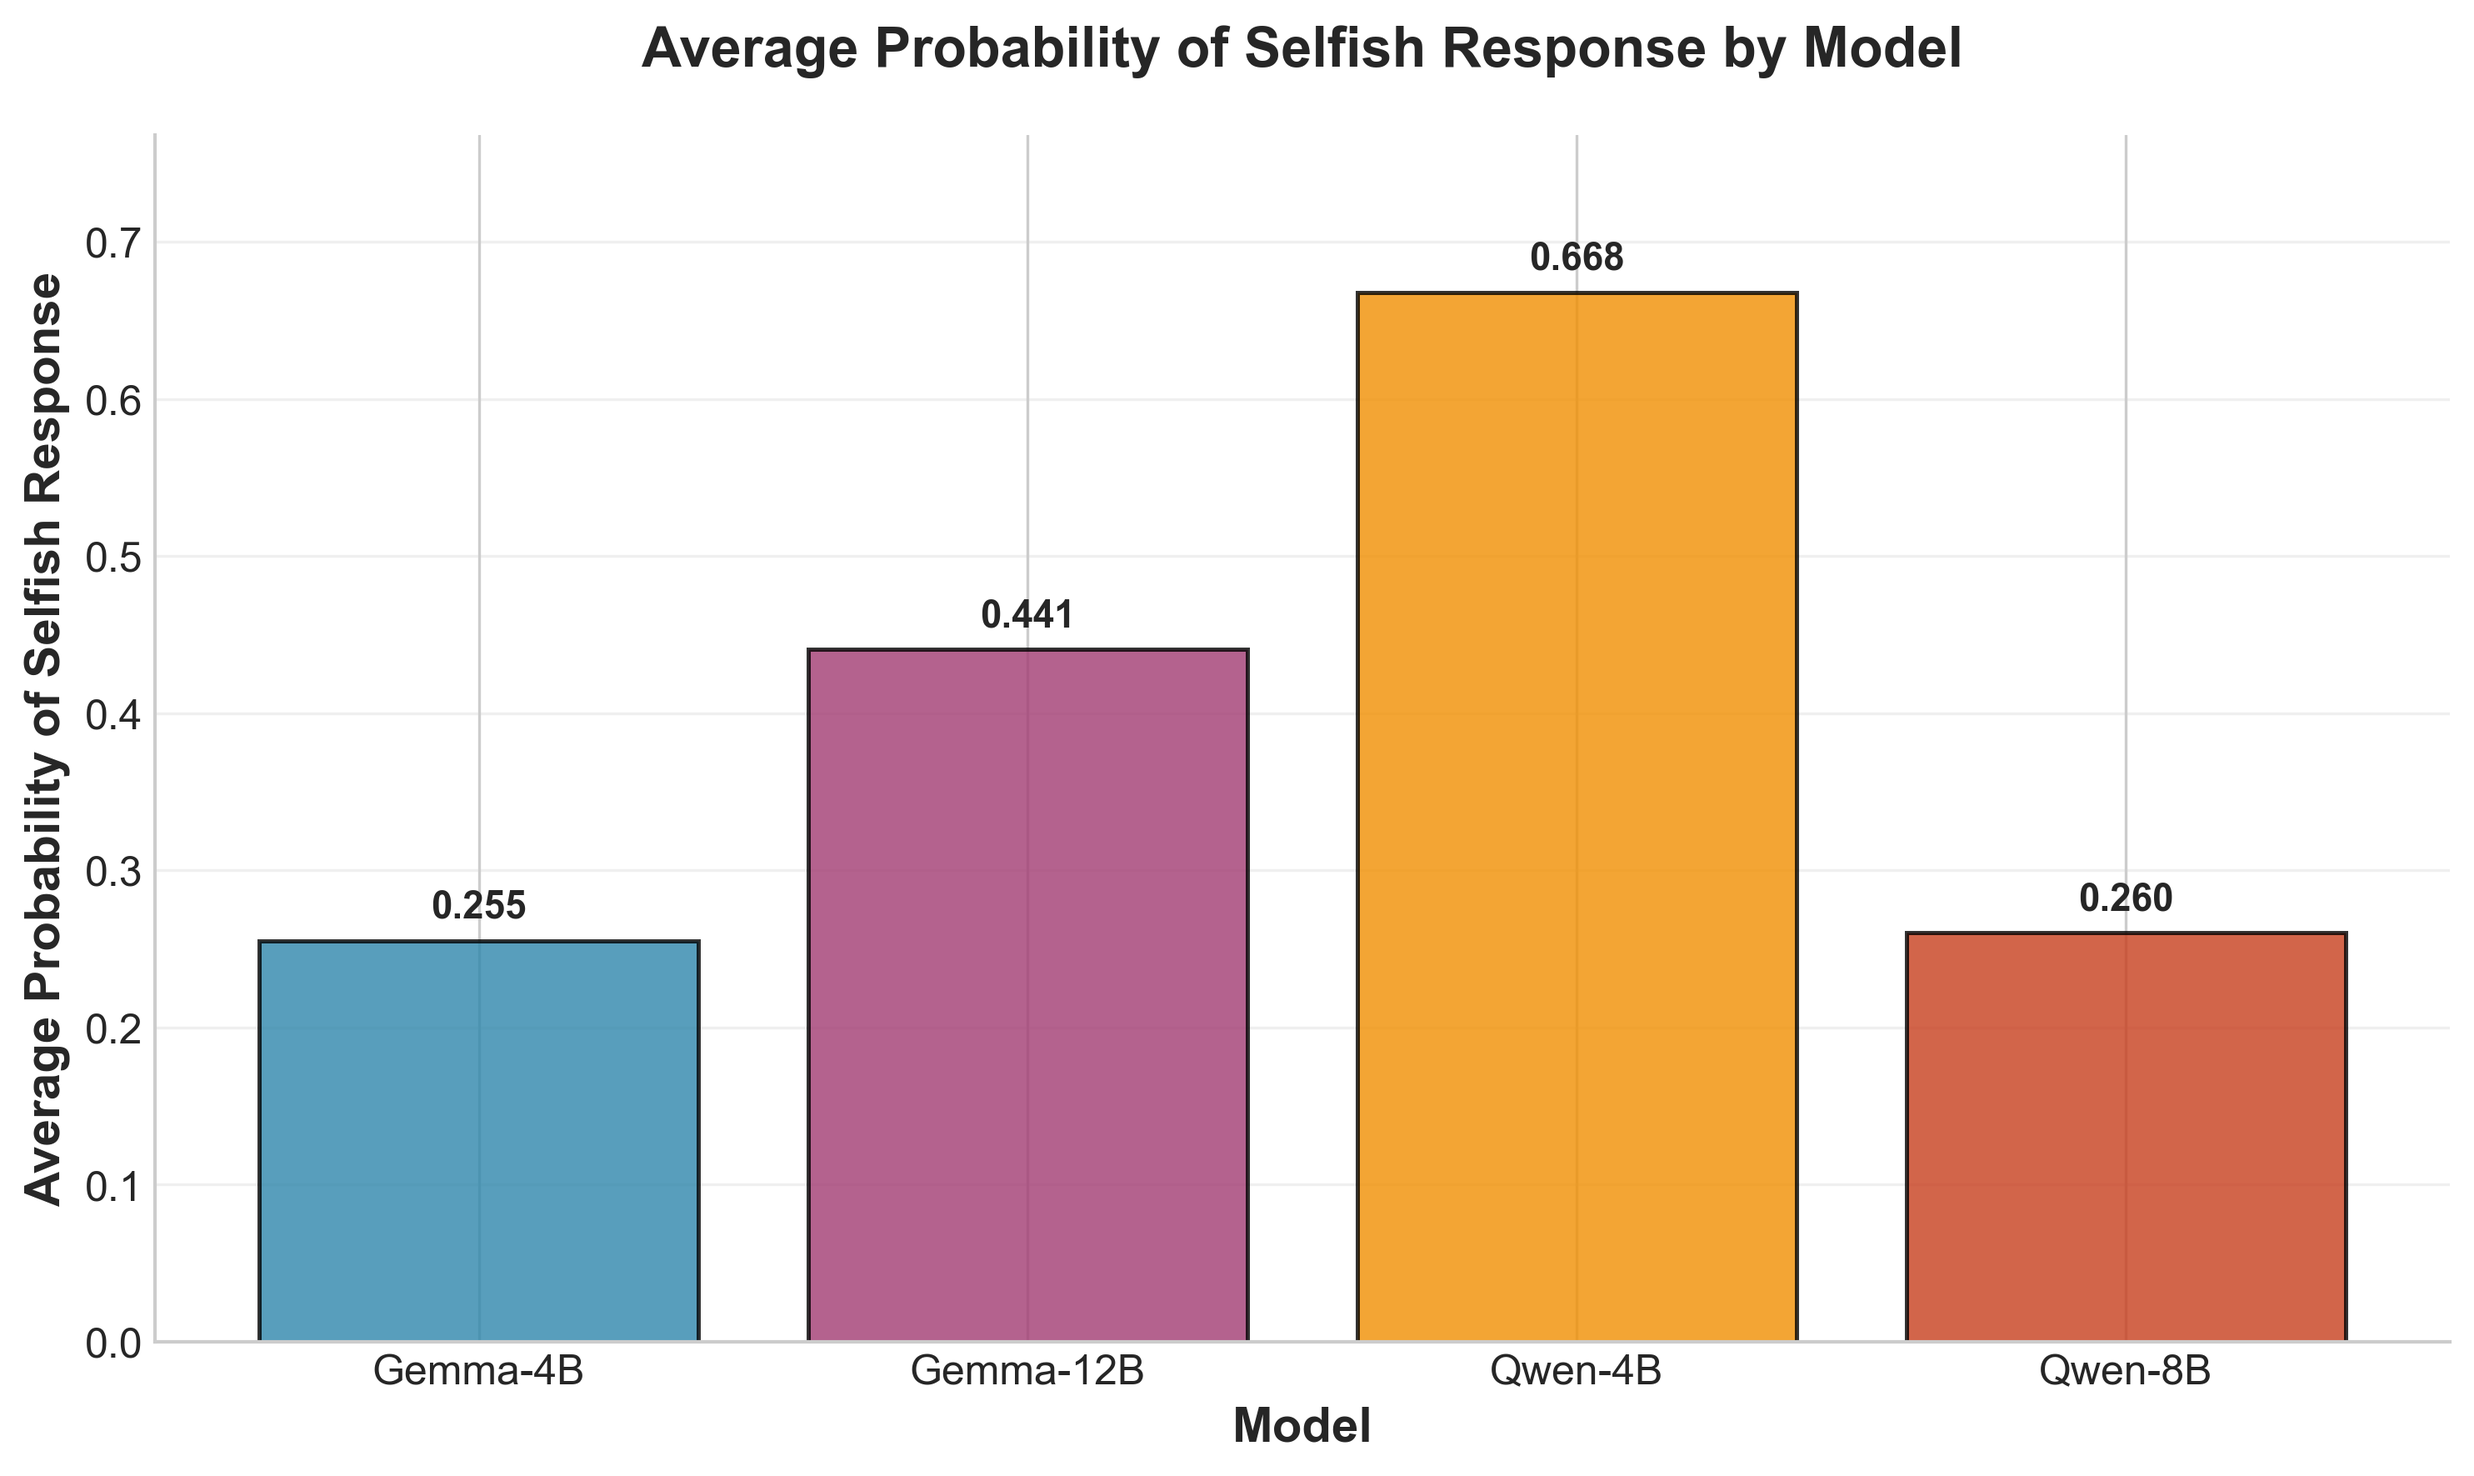
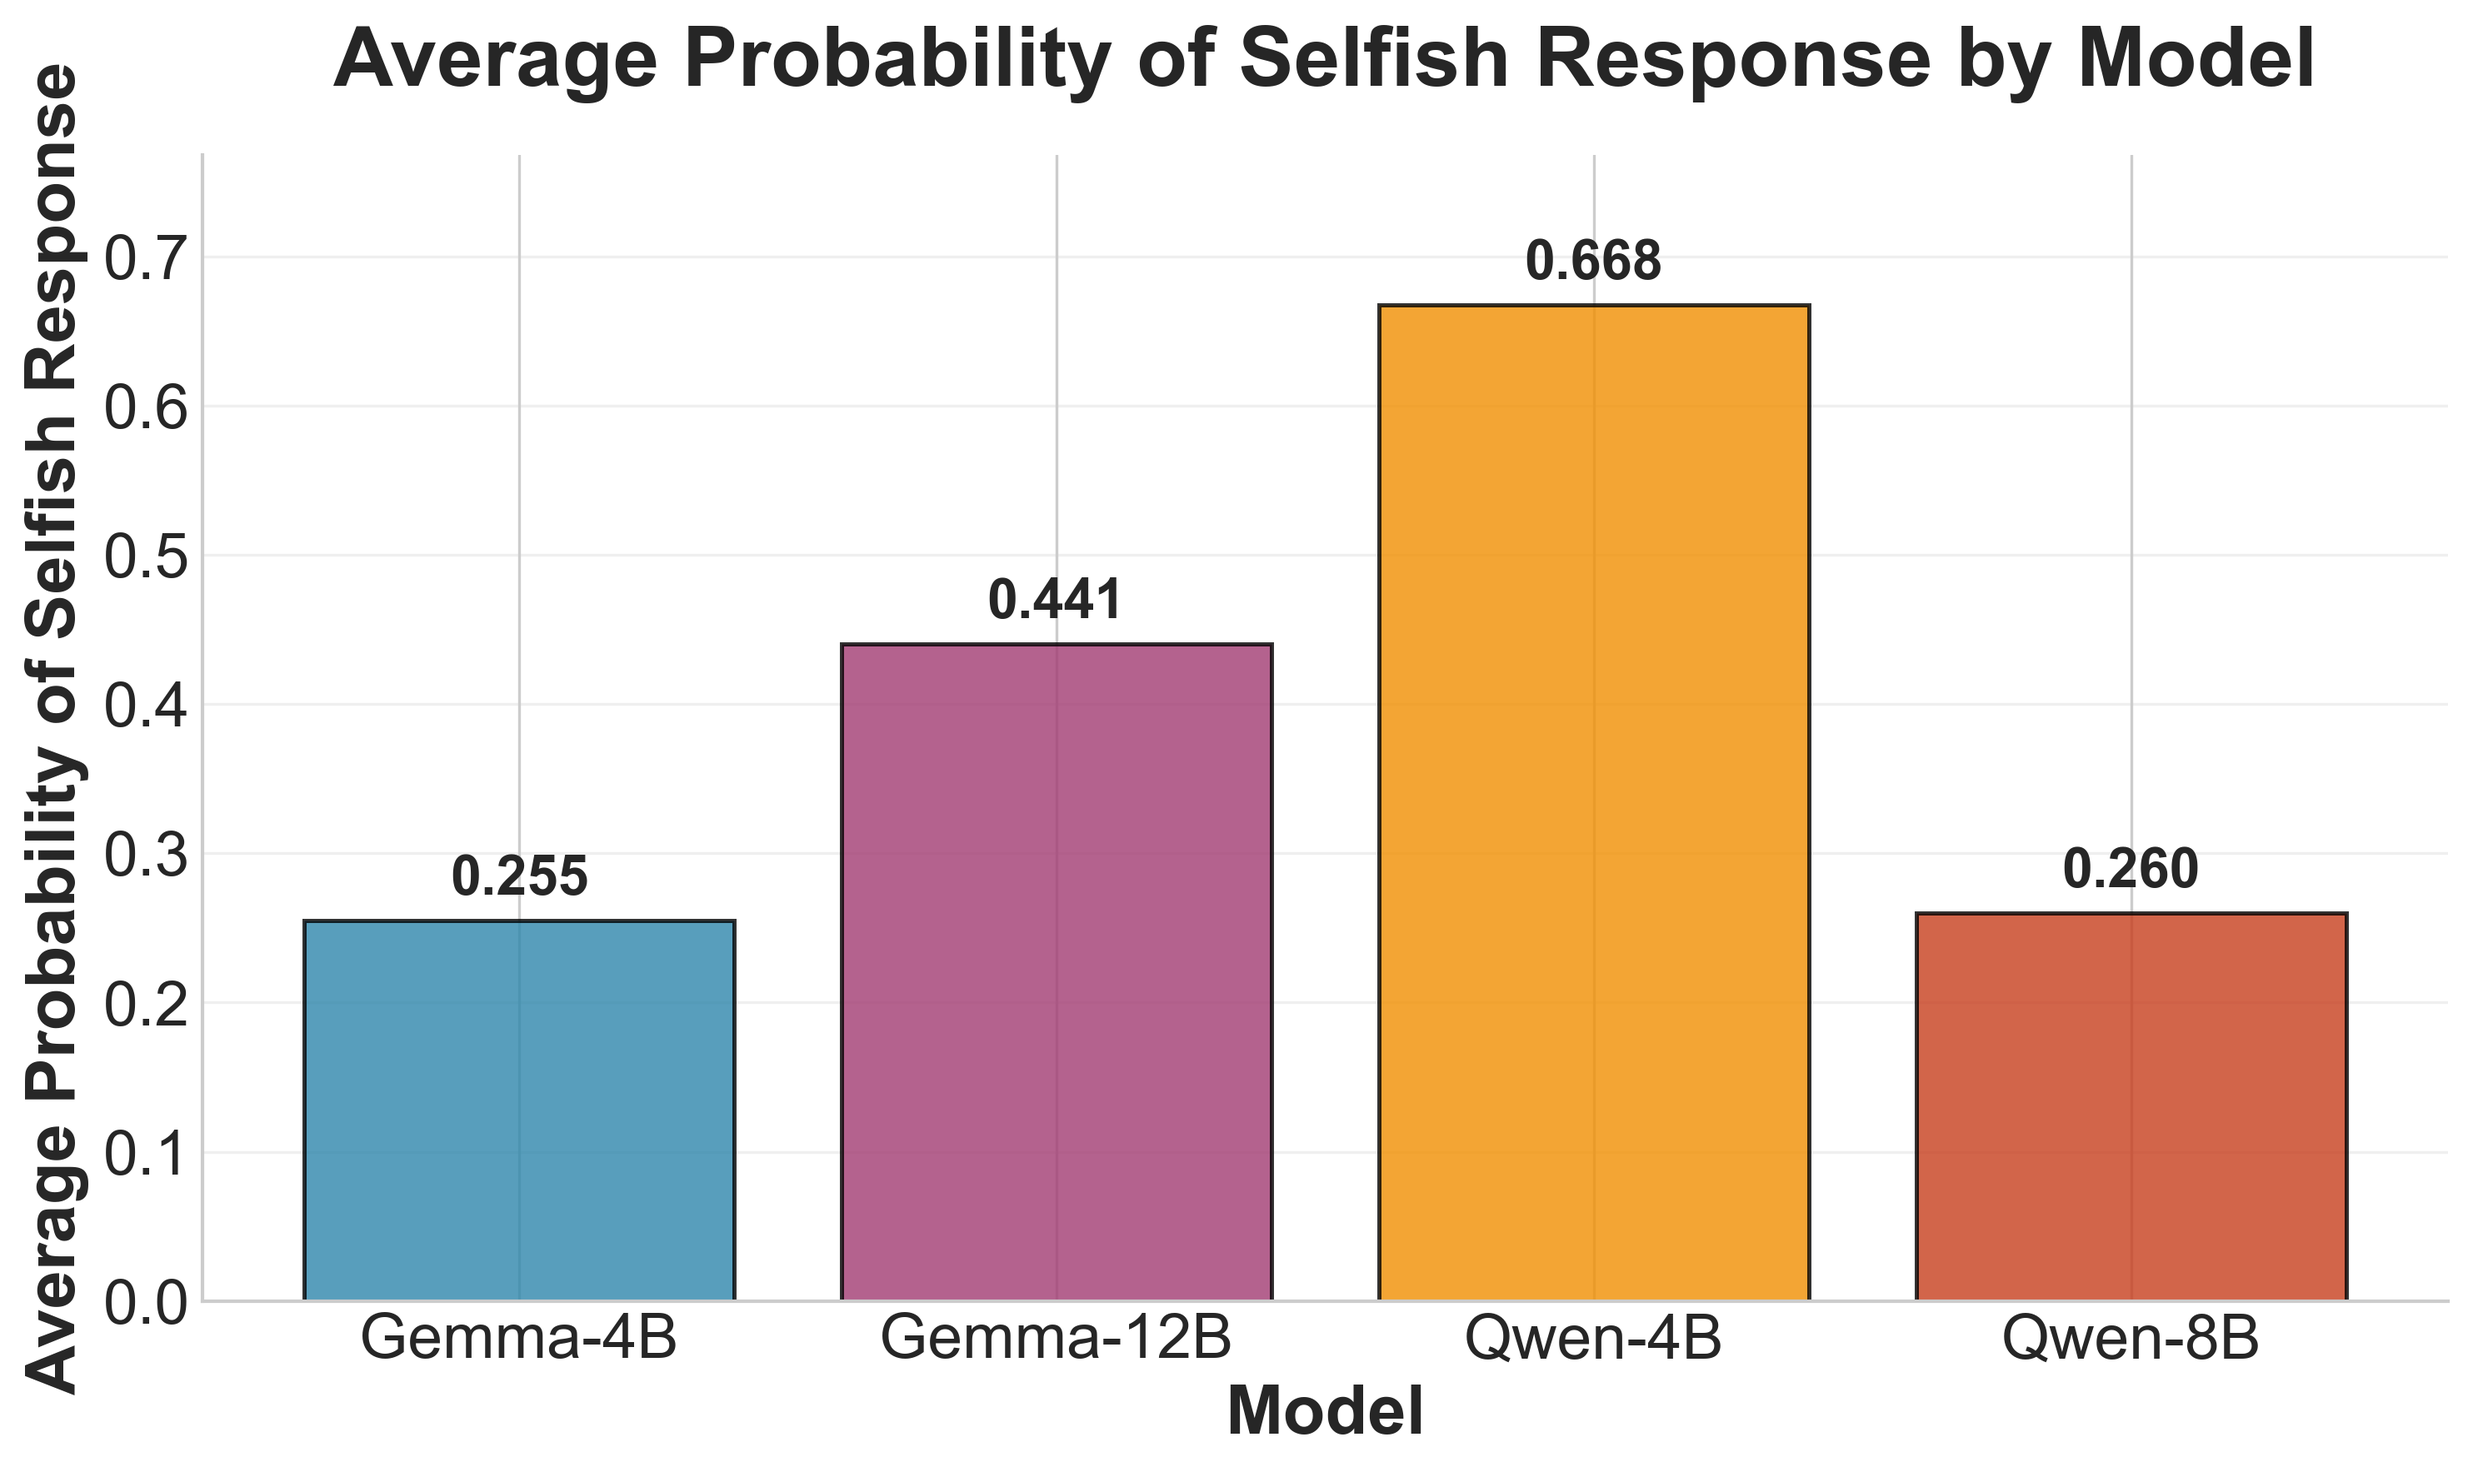
made graphs bigger, made a graph for all qwen results in game2

Changed region(s): [[0.0, 0.0311, 0.9609, 0.996], [0.124, 0.0, 0.9609, 0.0623]]

diff --git a/src/analysis/trends_analysis.py b/src/analysis/trends_analysis.py
@@ -10,7 +10,7 @@ import os
 sys.path.append(os.path.join(os.path.dirname(__file__), "..", ".."))
 
 from src.prompts.configs.money import PREFIXES
-from src.prompts.configs.games import DECISION_KEYWORDS
+from src.prompts.configs.games2 import DECISION_KEYWORDS
 
 MODEL_TO_CSV_PATH_MAP_GAME1 = {
     # "gemma-3-4b-it": "src/analysis/game1/gemma-3-4b-it_results.csv",
@@ -19,7 +19,7 @@ MODEL_TO_CSV_PATH_MAP_GAME1 = {
     # "chat-gemma-3-12b-it": "src/analysis/game1/chat-gemma-3-12b-it_results.csv",
     # "Qwen-without-temperature": "src/analysis/game1/qwen_results.csv",
     "Qwen": "src/analysis/game1/qwen_results_with_temperature.csv",
-    # "chat-llama-3.2-3B-Instruct": "src/analysis/game1/chat-llama-3.2-3b-instruct_results.csv",
+    "chat-llama-3.2-3B-Instruct": "src/analysis/game1/chat-llama-3.2-3b-instruct_results.csv",
 }
 
 MODEL_TO_CSV_PATH_MAP_GAME2 = {
@@ -212,11 +212,11 @@ def compare_mean_by_prefix_type(model_name: str, game: str):
     bars = ax.bar(x_pos, ordered_means, color=ordered_colors, alpha=0.8, edgecolor="black", linewidth=1.2)
 
     # Customize the plot
-    ax.set_xlabel("Money Context", fontsize=14, fontweight="bold")
-    ax.set_ylabel(f"Probability of {DECISION_KEYWORDS[0].title()} Response", fontsize=14, fontweight="bold")
+    ax.set_xlabel("Money Context", fontsize=20, fontweight="bold")
+    ax.set_ylabel(f"Probability of {DECISION_KEYWORDS[0].title()} Response", fontsize=20, fontweight="bold")
     ax.set_title(
         f"Model {DECISION_KEYWORDS[0].title()} Probability Across Money Conditions - {model_name}",
-        fontsize=16,
+        fontsize=24,
         fontweight="bold",
         pad=20,
     )
@@ -229,11 +229,11 @@ def compare_mean_by_prefix_type(model_name: str, game: str):
         "Negative Money\nContext",
     ]
     ax.set_xticks(x_pos)
-    ax.set_xticklabels([category_labels[category_order.index(prefix)] for prefix in ordered_prefixes], fontsize=12)
+    ax.set_xticklabels([category_labels[category_order.index(prefix)] for prefix in ordered_prefixes], fontsize=18)
 
     # Customize y-axis
     ax.set_ylim(0, max(ordered_means) + 0.1)
-    ax.tick_params(axis="y", labelsize=12)
+    ax.tick_params(axis="y", labelsize=18)
 
     # Add value labels on top of bars
     for i, (bar, mean) in enumerate(zip(bars, ordered_means)):
@@ -245,7 +245,7 @@ def compare_mean_by_prefix_type(model_name: str, game: str):
             ha="center",
             va="bottom",
             fontweight="bold",
-            fontsize=11,
+            fontsize=16,
         )
 
     # Add grid and styling
@@ -298,17 +298,124 @@ def compare_all_results_by_prefix_type(model_name: str, game: str):
             )
 
     plt.title(
-        f"{DECISION_KEYWORDS[0]} Probability Trends by Paraphrase Index - {model_name}", fontsize=16, fontweight="bold"
+        f"{DECISION_KEYWORDS[0]} Probability Trends by Paraphrase Index - {model_name}", fontsize=24, fontweight="bold"
     )
-    plt.xlabel("Paraphrase Index", fontsize=16)
-    plt.ylabel(f"{DECISION_KEYWORDS[0]} Probability", fontsize=16)
-    plt.legend(bbox_to_anchor=(1.05, 1), loc="upper left", fontsize=16)
+    plt.xlabel("Paraphrase Index", fontsize=20)
+    plt.ylabel(f"{DECISION_KEYWORDS[0]} Probability", fontsize=20)
+    plt.legend(bbox_to_anchor=(1.05, 1), loc="upper left", fontsize=18)
     plt.grid(True, alpha=0.3)
-    plt.xticks(fontsize=12)
-    plt.yticks(fontsize=12)
+    plt.xticks(fontsize=18)
+    plt.yticks(fontsize=18)
     plt.tight_layout()
     plt.savefig(f"{output_dir}/{model_name}_paraphrase_trends.png", bbox_inches="tight")
     plt.close()
+
+
+def compare_combined_qwen_models_game2():
+    """
+    Create a bar chart showing mean wait probability for each prefix type,
+    combining data from both qwen-4b and qwen-8b models for game2.
+    """
+    # Set up the plotting style for publication quality
+    plt.style.use("seaborn-v0_8-whitegrid")
+    sns.set_palette("husl")
+
+    # Define the paths to both CSV files
+    qwen_4b_path = "src/analysis/game2/qwen-4b_results_with_temperature.csv"
+    qwen_8b_path = "src/analysis/game2/qwen-8b_results_with_temperature.csv"
+    output_dir = OUTPUT_DIR_GAME2
+
+    # Read and process data from both models
+    df_4b = pd.read_csv(qwen_4b_path)
+    df_8b = pd.read_csv(qwen_8b_path)
+
+    # Combine the data
+    df_combined = pd.concat([df_4b, df_8b], ignore_index=True)
+
+    # Process the combined data
+    df_combined = df_combined[["prefix_type", "decision_tokens"]]
+    df_combined = convert_decision_tokens_to_dict(df_combined)
+
+    # Calculate mean wait probability for each prefix type
+    means_by_prefix = {}
+    for prefix in PXS:
+        df_for_prefix = df_combined[df_combined["prefix_type"] == prefix]
+        if not df_for_prefix.empty:
+            means_by_prefix[prefix] = df_for_prefix["decision_tokens"].mean()
+
+    # Define custom order and colors for categories to match other figures
+    category_order = ["none", "positive_money", "neutral_money", "negative_money"]
+    colors = ["#808080", "#228B22", "#FFA500", "#DC143C"]  # Grey, ForestGreen, Orange, Crimson
+
+    # Reorder data to match the desired order
+    ordered_prefixes = [prefix for prefix in category_order if prefix in means_by_prefix]
+    ordered_means = [means_by_prefix[prefix] for prefix in ordered_prefixes]
+    ordered_colors = [colors[category_order.index(prefix)] for prefix in ordered_prefixes]
+
+    # Create the plot
+    fig, ax = plt.subplots(figsize=(10, 6))
+
+    # Create bars
+    x_pos = np.arange(len(ordered_prefixes))
+    bars = ax.bar(x_pos, ordered_means, color=ordered_colors, alpha=0.8, edgecolor="black", linewidth=1.2)
+
+    # Customize the plot
+    ax.set_xlabel("Money Context", fontsize=20, fontweight="bold")
+    ax.set_ylabel("Probability of Wait Response", fontsize=20, fontweight="bold")
+    ax.set_title(
+        "Model Wait Probability Across Money Conditions - Qwen",
+        fontsize=22,
+        fontweight="bold",
+        pad=20,
+    )
+
+    # Set x-axis labels
+    category_labels = [
+        "No Money\nContext",
+        "Positive Money\nContext",
+        "Neutral Money\nContext",
+        "Negative Money\nContext",
+    ]
+    ax.set_xticks(x_pos)
+    ax.set_xticklabels([category_labels[category_order.index(prefix)] for prefix in ordered_prefixes], fontsize=18)
+
+    # Customize y-axis
+    ax.set_ylim(0, max(ordered_means) + 0.1)
+    ax.tick_params(axis="y", labelsize=18)
+
+    # Add value labels on top of bars
+    for i, (bar, mean) in enumerate(zip(bars, ordered_means)):
+        height = bar.get_height()
+        ax.text(
+            bar.get_x() + bar.get_width() / 2.0,
+            height + 0.01,
+            f"{mean:.3f}",
+            ha="center",
+            va="bottom",
+            fontweight="bold",
+            fontsize=16,
+        )
+
+    # Add grid and styling
+    ax.grid(axis="y", alpha=0.3)
+    ax.spines["top"].set_visible(False)
+    ax.spines["right"].set_visible(False)
+
+    plt.tight_layout()
+    plt.savefig(
+        f"{output_dir}/Combined_Qwen_4B_8B_wait_probability_by_money_context.png",
+        dpi=300,
+        bbox_inches="tight",
+        facecolor="white",
+    )
+    plt.close()
+
+    # Print the results for verification
+    print("Combined Qwen Models (4B + 8B) Wait Probability by Money Context:")
+    for prefix in ordered_prefixes:
+        print(f"{prefix}: {means_by_prefix[prefix]:.3f}")
+
+    return f"{output_dir}/Combined_Qwen_4B_8B_wait_probability_by_money_context.png"
 
 
 if __name__ == "__main__":

diff --git a/src/visuals/non_reasoning_results/create_figures.py b/src/visuals/non_reasoning_results/create_figures.py
@@ -41,11 +41,11 @@ def create_money_category_graph(df):
     bars = ax.bar(x_pos, means, color=colors, alpha=0.8, edgecolor="black", linewidth=1.2)
 
     # Customize the plot
-    ax.set_xlabel("Money Context", fontsize=14, fontweight="bold")
-    ax.set_ylabel("Probability of Selfish Response", fontsize=14, fontweight="bold")
+    ax.set_xlabel("Money Context", fontsize=20, fontweight="bold")
+    ax.set_ylabel("Probability of Selfish Response", fontsize=20, fontweight="bold")
     ax.set_title(
         "Model Selfishness Across Money Conditions",
-        fontsize=16,
+        fontsize=24,
         fontweight="bold",
         pad=20,
     )
@@ -58,11 +58,11 @@ def create_money_category_graph(df):
         "Negative Money\nContext",
     ]
     ax.set_xticks(x_pos)
-    ax.set_xticklabels(category_labels, fontsize=12)
+    ax.set_xticklabels(category_labels, fontsize=18)
 
     # Customize y-axis
     ax.set_ylim(0, max(means) + 0.1)
-    ax.tick_params(axis="y", labelsize=12)
+    ax.tick_params(axis="y", labelsize=18)
 
     # Add value labels on top of bars
     for i, (bar, mean) in enumerate(zip(bars, means)):
@@ -74,7 +74,7 @@ def create_money_category_graph(df):
             ha="center",
             va="bottom",
             fontweight="bold",
-            fontsize=11,
+            fontsize=16,
         )
 
     # Add grid and styling
@@ -115,23 +115,23 @@ def create_money_vs_none_graph(df):
     bars = ax.bar(x_pos, condition_stats["mean"], color=colors, alpha=0.8, edgecolor="black", linewidth=1.2)
 
     # Customize the plot
-    ax.set_xlabel("Condition", fontsize=14, fontweight="bold")
-    ax.set_ylabel("Probability of Selfish Response", fontsize=14, fontweight="bold")
+    ax.set_xlabel("Condition", fontsize=20, fontweight="bold")
+    ax.set_ylabel("Probability of Selfish Response", fontsize=20, fontweight="bold")
     ax.set_title(
         "Effect of Money Context on Model Selfishness",
-        fontsize=16,
+        fontsize=24,
         fontweight="bold",
         pad=20,
     )
 
     # Set x-axis labels
     ax.set_xticks(x_pos)
-    ax.set_xticklabels(condition_stats["condition"], fontsize=12)
+    ax.set_xticklabels(condition_stats["condition"], fontsize=18)
 
     # Customize y-axis
     max_val = condition_stats["mean"].max()
     ax.set_ylim(0, max_val + 0.1)
-    ax.tick_params(axis="y", labelsize=12)
+    ax.tick_params(axis="y", labelsize=18)
 
     # Add value labels on top of bars
     for i, (bar, mean) in enumerate(zip(bars, condition_stats["mean"])):
@@ -143,7 +143,7 @@ def create_money_vs_none_graph(df):
             ha="center",
             va="bottom",
             fontweight="bold",
-            fontsize=12,
+            fontsize=16,
         )
 
     # Calculate and display the difference
@@ -155,7 +155,7 @@ def create_money_vs_none_graph(df):
     # Add text box with statistics
     textstr = f"Difference: +{difference:.3f}\nIncrease: +{percent_increase:.1f}%"
     props = dict(boxstyle="round", facecolor="wheat", alpha=0.8)
-    ax.text(0.02, 0.98, textstr, transform=ax.transAxes, fontsize=11, verticalalignment="top", bbox=props)
+    ax.text(0.02, 0.98, textstr, transform=ax.transAxes, fontsize=16, verticalalignment="top", bbox=props)
 
     # Add grid and styling
     ax.grid(axis="y", alpha=0.3)

diff --git a/src/visuals/model_size_comparison/selfish_response_analysis.py b/src/visuals/model_size_comparison/selfish_response_analysis.py
@@ -129,17 +129,17 @@ def main():
     )
 
     # Customize the plot
-    ax.set_title("Average Probability of Selfish Response by Model", fontsize=16, fontweight="bold", pad=20)
-    ax.set_xlabel("Model", fontsize=14, fontweight="bold")
-    ax.set_ylabel("Average Probability of Selfish Response", fontsize=14, fontweight="bold")
+    ax.set_title("Average Probability of Selfish Response by Model", fontsize=24, fontweight="bold", pad=20)
+    ax.set_xlabel("Model", fontsize=20, fontweight="bold")
+    ax.set_ylabel("Average Probability of Selfish Response", fontsize=20, fontweight="bold")
 
     # Set x-axis labels
     ax.set_xticks(x_pos)
-    ax.set_xticklabels(models, fontsize=12)
+    ax.set_xticklabels(models, fontsize=18)
 
     # Customize y-axis
     ax.set_ylim(0, max(averages) * 1.15)
-    ax.tick_params(axis="y", labelsize=12)
+    ax.tick_params(axis="y", labelsize=18)
 
     # Add value labels on top of bars
     for i, (bar, avg) in enumerate(zip(bars, averages)):
@@ -151,7 +151,7 @@ def main():
             ha="center",
             va="bottom",
             fontweight="bold",
-            fontsize=11,
+            fontsize=16,
         )
 
     # Add grid and styling to match other graphs
